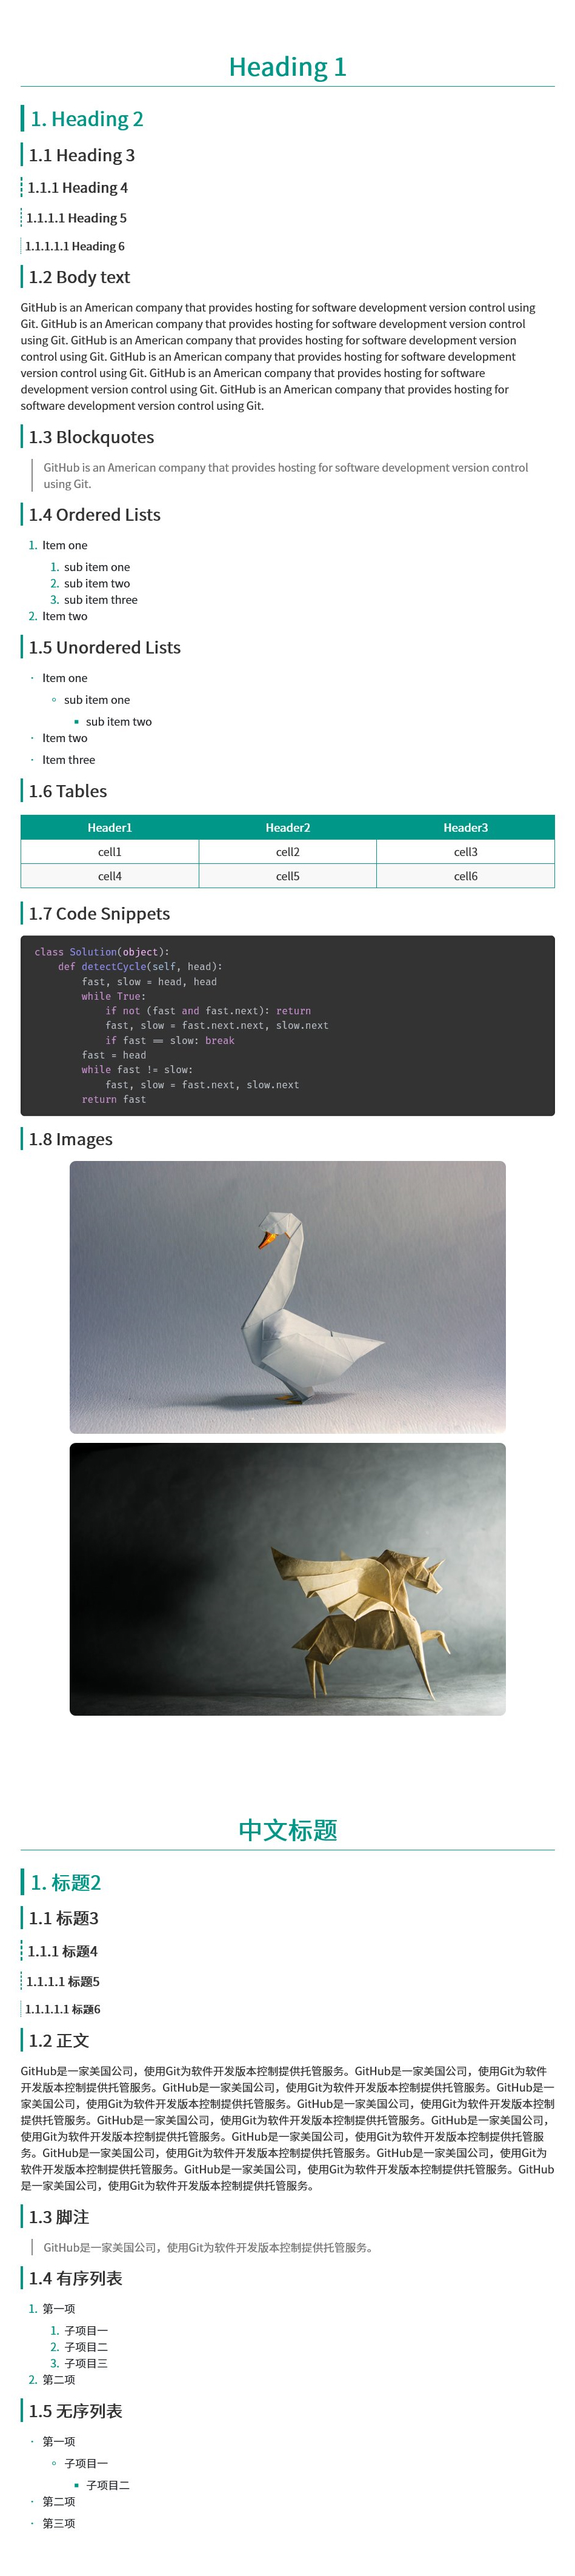
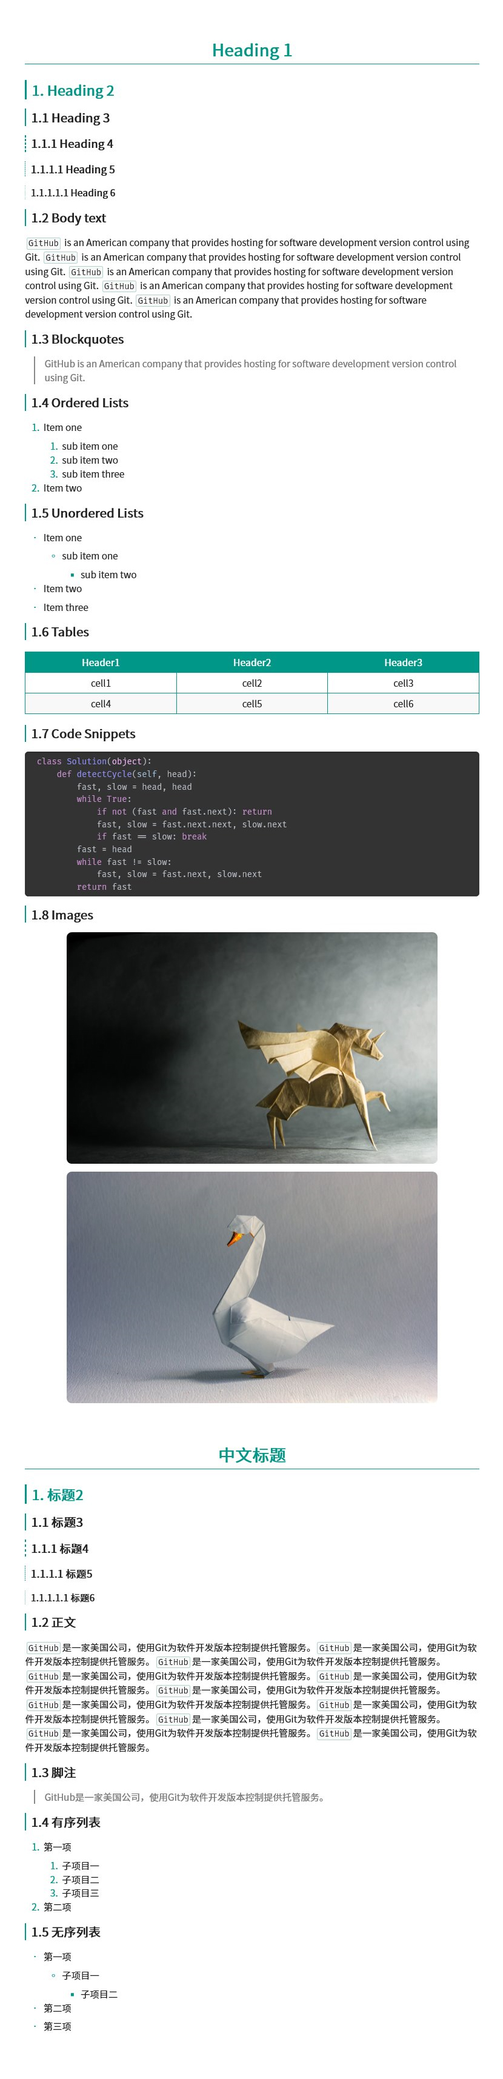
Style update.

Changed region(s): [[0.0301, 0.0312, 0.9639, 0.7175], [0.0301, 0.7175, 0.9639, 0.9983], [0.3916, 0.0, 0.6024, 0.0312]]

diff --git a/github-diy.css b/github-diy.css
@@ -99,13 +99,13 @@ h2 {
   color: #009688;
   padding-left: 10px;
   line-height: 1.4;
-  border-left: 5px solid #009688;
+  border-left: 3px solid #009688;
 }
 h3 {
   font-size: 1.3em;
   line-height: 1.43;
-  padding-left: 9px;
-  border-left: 4px solid #009688;
+  padding-left: 10px;
+  border-left: 2px solid #009688;
 }
 #write > h3.md-focus:before,
 #write > h4.md-focus:before {
@@ -115,18 +115,18 @@ h3 {
 }
 h4 {
   font-size: 1.2em;
-  padding-left: 8px;
-  border-left: 3px dashed #009688;
+  padding-left: 10px;
+  border-left: 2px dashed #009688;
 }
 h5 {
   font-size: 1.1em;
-  padding-left: 7px;
-  border-left: 2px dashed #009688;
+  padding-left: 10px;
+  border-left: 1px dashed #009688;
 }
 h6 {
   font-size: 1em;
-  padding-left: 6px;
-  border-left: 1px dashed #009688;
+  padding-left: 10px;
+  border-left: 1px dotted #009688;
 }
 p,
 blockquote,

diff --git a/demo.md b/demo.md
@@ -12,7 +12,7 @@
 
 ### Body text
 
-GitHub is an American company that provides hosting for software development version control using Git. GitHub is an American company that provides hosting for software development version control using Git. GitHub is an American company that provides hosting for software development version control using Git. GitHub is an American company that provides hosting for software development version control using Git. GitHub is an American company that provides hosting for software development version control using Git. GitHub is an American company that provides hosting for software development version control using Git. 
+`GitHub` is an American company that provides hosting for software development version control using Git. `GitHub` is an American company that provides hosting for software development version control using Git. `GitHub` is an American company that provides hosting for software development version control using Git. `GitHub` is an American company that provides hosting for software development version control using Git. `GitHub` is an American company that provides hosting for software development version control using Git. 
 
 ### Blockquotes
 
@@ -58,13 +58,9 @@ class Solution(object):
 
 ### Images
 
-![ChMkJlYl3yWIUgfxAAmpQTDdOVMAAD4zQLhwfEACalZ199](README.assets/ChMkJlYl3yWIUgfxAAmpQTDdOVMAAD4zQLhwfEACalZ199-1568272652198.jpg)
+![ChMkJlYl3xuIOVU3AAlMcuIDftYAAD4zAD0WvIACUyK315](demo.assets/ChMkJlYl3xuIOVU3AAlMcuIDftYAAD4zAD0WvIACUyK315.jpg)
 
-![ChMkJlYl3xuIOVU3AAlMcuIDftYAAD4zAD0WvIACUyK315](README.assets/ChMkJlYl3xuIOVU3AAlMcuIDftYAAD4zAD0WvIACUyK315.jpg)
-
-
-
-
+![ChMkJlYl3yWIUgfxAAmpQTDdOVMAAD4zQLhwfEACalZ199](demo.assets/ChMkJlYl3yWIUgfxAAmpQTDdOVMAAD4zQLhwfEACalZ199.jpg)
 
 
 
@@ -82,7 +78,7 @@ class Solution(object):
 
 ### 正文
 
-GitHub是一家美国公司，使用Git为软件开发版本控制提供托管服务。GitHub是一家美国公司，使用Git为软件开发版本控制提供托管服务。GitHub是一家美国公司，使用Git为软件开发版本控制提供托管服务。GitHub是一家美国公司，使用Git为软件开发版本控制提供托管服务。GitHub是一家美国公司，使用Git为软件开发版本控制提供托管服务。GitHub是一家美国公司，使用Git为软件开发版本控制提供托管服务。GitHub是一家美国公司，使用Git为软件开发版本控制提供托管服务。GitHub是一家美国公司，使用Git为软件开发版本控制提供托管服务。GitHub是一家美国公司，使用Git为软件开发版本控制提供托管服务。GitHub是一家美国公司，使用Git为软件开发版本控制提供托管服务。GitHub是一家美国公司，使用Git为软件开发版本控制提供托管服务。GitHub是一家美国公司，使用Git为软件开发版本控制提供托管服务。
+`GitHub`是一家美国公司，使用Git为软件开发版本控制提供托管服务。`GitHub`是一家美国公司，使用Git为软件开发版本控制提供托管服务。`GitHub`是一家美国公司，使用Git为软件开发版本控制提供托管服务。`GitHub`是一家美国公司，使用Git为软件开发版本控制提供托管服务。`GitHub`是一家美国公司，使用Git为软件开发版本控制提供托管服务。`GitHub`是一家美国公司，使用Git为软件开发版本控制提供托管服务。`GitHub`是一家美国公司，使用Git为软件开发版本控制提供托管服务。`GitHub`是一家美国公司，使用Git为软件开发版本控制提供托管服务。`GitHub`是一家美国公司，使用Git为软件开发版本控制提供托管服务。`GitHub`是一家美国公司，使用Git为软件开发版本控制提供托管服务。`GitHub`是一家美国公司，使用Git为软件开发版本控制提供托管服务。
 
 ### 脚注
 
